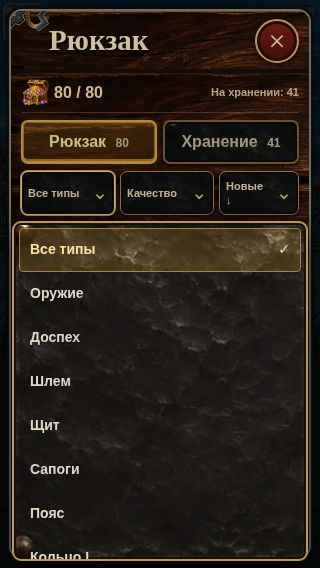
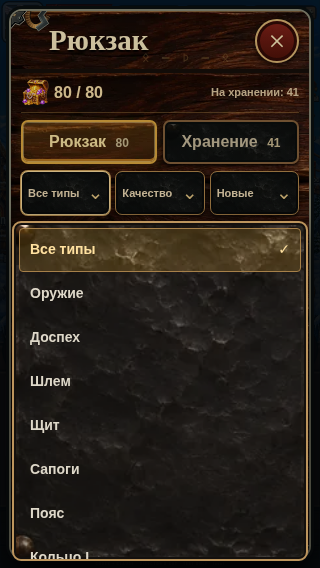
fix(ui): fit every compact inventory sort value beside its disclosure arrow

Changed region(s): [[0.5938, 0.2993, 0.8125, 0.3891], [0.2812, 0.2993, 0.5625, 0.3891]]

diff --git a/src/ui/CompactFilter.tsx b/src/ui/CompactFilter.tsx
@@ -2,7 +2,7 @@ import {useEffect,useId,useRef,useState} from 'react';
 
 /** Native top-layer popover: browser owns outside-touch dismissal and Escape.
  * Options remain game-sized; no Android system select is opened. */
-export function CompactFilter({label,value,options,onChange}:{label:string;value:string;options:readonly {value:string;label:string}[];onChange:(value:string)=>void}){
+export function CompactFilter({label,value,options,onChange}:{label:string;value:string;options:readonly {value:string;label:string;shortLabel?:string}[];onChange:(value:string)=>void}){
  const id=useId(),trigger=useRef<HTMLButtonElement>(null),list=useRef<HTMLDivElement>(null),[open,setOpen]=useState(false);
  const current=options.find(o=>o.value===value)??options[0];
  const close=(restore=false)=>{list.current?.hidePopover();if(restore)trigger.current?.focus({preventScroll:true})};
@@ -15,7 +15,7 @@ export function CompactFilter({label,value,options,onChange}:{label:string;value
   Object.assign(el.style,{width:width+'px',left:Math.min(Math.max(12,r.left),innerWidth-width-12)+'px',top:useBelow?r.bottom+5+'px':'auto',bottom:useBelow?'auto':height-r.top+5+'px',maxHeight:Math.max(44,Math.min(340,useBelow?below:above))+'px'});
   el.showPopover();const selected=el.querySelector<HTMLElement>('[aria-selected="true"]');selected?.focus({preventScroll:true});selected?.scrollIntoView({block:'nearest'});
  };
- return <div className="compact-filter"><button ref={trigger} type="button" className="filter-trigger" aria-label={`${label}: ${current.label}`} aria-haspopup="listbox" aria-expanded={open} aria-controls={id} onClick={show} onKeyDown={e=>{if(e.key==='ArrowDown'||e.key==='ArrowUp'){e.preventDefault();show()}}}><span>{current.label}</span><span aria-hidden="true">⌄</span></button><div ref={list} id={id} className="fantasy-filter-options" popover="auto" role="listbox" aria-label={label} onToggle={e=>setOpen(e.newState==='open')} onKeyDown={e=>{
+ return <div className="compact-filter"><button ref={trigger} type="button" className="filter-trigger" aria-label={`${label}: ${current.label}`} aria-haspopup="listbox" aria-expanded={open} aria-controls={id} onClick={show} onKeyDown={e=>{if(e.key==='ArrowDown'||e.key==='ArrowUp'){e.preventDefault();show()}}}><span>{current.shortLabel??current.label}</span><span aria-hidden="true">⌄</span></button><div ref={list} id={id} className="fantasy-filter-options" popover="auto" role="listbox" aria-label={label} onToggle={e=>setOpen(e.newState==='open')} onKeyDown={e=>{
    if(e.key==='Escape'){e.stopPropagation();e.preventDefault();close(true);return}
    const buttons=Array.from(list.current?.querySelectorAll<HTMLButtonElement>('[role="option"]')??[]),index=buttons.indexOf(document.activeElement as HTMLButtonElement);
    let next=index;if(e.key==='ArrowDown')next=(index+1)%buttons.length;else if(e.key==='ArrowUp')next=(index-1+buttons.length)%buttons.length;else if(e.key==='Home')next=0;else if(e.key==='End')next=buttons.length-1;else if(e.key==='Tab'){close(true);return}else if(e.key.length===1&&!e.ctrlKey&&!e.metaKey){next=options.findIndex((o,i)=>i>index&&o.label.toLocaleLowerCase('ru').startsWith(e.key.toLocaleLowerCase('ru')));if(next<0)next=options.findIndex(o=>o.label.toLocaleLowerCase('ru').startsWith(e.key.toLocaleLowerCase('ru')))}else return;

diff --git a/src/ui/Backpack.tsx b/src/ui/Backpack.tsx
@@ -23,7 +23,7 @@ export function Backpack({storage,setStorage}:{storage:boolean;setStorage:(value
   <div className="pack-filters">
    <CompactFilter label="Тип предмета" value={slot??''} onChange={value=>setSlot(value as Slot||undefined)} options={[{value:'',label:'Все типы'},...slots.map(s=>({value:s,label:slotNames[s]}))]}/>
    <CompactFilter label="Фильтр качества" value={filter} onChange={value=>setFilter(value as LootFilter)} options={[{value:'all',label:'Качество'},{value:'better',label:'Сильнее'},{value:'rare',label:'Редкие'},{value:'unique',label:'Именные / сеты'},{value:'locked',label:'С замком'}]}/>
-   <CompactFilter label="Сортировка" value={order} onChange={setOrder} options={[{value:'newest',label:'Новые ↓'},{value:'power',label:'Сила ↓'},{value:'rarity',label:'Редкость ↓'}]}/>
+   <CompactFilter label="Сортировка" value={order} onChange={setOrder} options={[{value:'newest',label:'Новые ↓',shortLabel:'Новые'},{value:'power',label:'Сила ↓',shortLabel:'Сила'},{value:'rarity',label:'Редкость ↓',shortLabel:'Редкость'}]}/>
   </div>
   <InventoryGrid controls={<label className="pack-auto"><input type="checkbox" checked={g.autoSalvageWeaker} onChange={e=>g.configure({autoSalvageWeaker:e.target.checked})}/><span>Авторазбор слабой новой добычи</span></label>} key={storage?'storage':'backpack'} p={p} filter={filter} slot={slot} order={order} storage={storage} onSelect={g.select} onBulkSalvage={g.bulkSalvage} onClaim={g.claimStored}/>
  </DialogShell>;

diff --git a/src/ui/backpack.css b/src/ui/backpack.css
@@ -14,7 +14,7 @@
 .pack-tabs button{flex:1;min-height:44px;border:2px solid #8a653e;border-radius:7px;background:var(--saga-iron);font-size:16px;color:#cbbd9e;box-shadow:inset 0 0 0 2px #0b0e0d,0 2px 3px #000b}
 .pack-tabs button[aria-pressed="true"]{background:linear-gradient(#dd9c293e,#8a4d1644),var(--saga-oak);border-color:#e4ad43;color:#ffe9a6;box-shadow:inset 0 0 0 1px #fff0a666,inset 0 -3px #b97a23,0 0 8px #dfa02530}
 .pack-tabs small{font:600 12px Arial,sans-serif;margin-left:5px;color:#cebd94}
-.pack-filters{display:grid;grid-template-columns:minmax(0,1fr) minmax(0,1fr) minmax(0,.85fr);gap:5px;flex-shrink:0}
+.pack-filters{display:grid;grid-template-columns:repeat(3,minmax(0,1fr));gap:5px;flex-shrink:0}
 .pack-auto{flex:none;gap:8px;min-height:36px;font-size:12px;line-height:1.25;color:#e6d4ad}
 .pack-auto input{width:22px;height:22px}
 .saga-modal[data-panel="inventory"] .inventory-grid{grid-template-columns:repeat(4,minmax(0,1fr));grid-auto-rows:max-content;gap:7px;padding:8px;flex:1 1 auto;min-height:80px;overflow-y:auto;overscroll-behavior:contain;scrollbar-width:thin;border:2px solid #776449;background:linear-gradient(#0004,#0004),var(--saga-cloth);box-shadow:inset 0 3px 12px #000c,0 0 0 2px #120f0c;border-radius:8px;margin:0;scroll-padding:8px}

diff --git a/docs/qa/PERFECT_GAME_UI.md b/docs/qa/PERFECT_GAME_UI.md
@@ -44,7 +44,7 @@ Evidence: [geometry](perfect-game-ui/geometry.json), [interactions](perfect-game
 
 ## Visual iteration and independent criticism
 
-Real screenshots caught issues that builds/tests did not: inflated perk text after a cascade conflict, fused hero labels/values, metal decoration over a footer button, stacked autobattle actions and the forge CTA below the fold. All were corrected and captured again. A separate read-only critic inspected final 320px hero, inventory, forge, autobattle and bulk confirmation, plus 390px item/set and inventory, and independently exercised the production filter's last option/focus/Escape behavior. No blocker remained in those checks; this is not a claim that the critic personally inspected every window.
+Real screenshots caught issues that builds/tests did not: inflated perk text after a cascade conflict, fused hero labels/values, metal decoration over a footer button, stacked autobattle actions, the forge CTA below the fold, a 3px mastery-tab overflow and a 6px active sort-label overflow on 320px. Sort triggers now use full accessible names and shorter visible labels, with equal filter columns. All were corrected and captured again. A separate read-only critic inspected final 320px hero, inventory, forge, autobattle and bulk confirmation, plus 390px item/set and inventory, and independently exercised the production filter's last option/focus/Escape behavior. No blocker remained in those checks; this is not a claim that the critic personally inspected every window.
 
 | Evidence | Image |
 |---|---|
